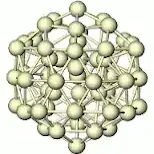
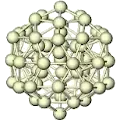
smaller pic

diff --git a/index.md b/index.md
@@ -30,7 +30,7 @@ from high-performance parallel supercomputers to conventional
 workstation clusters.
 
 The NWChem software can handle:  
-<img src="pt55.webp" style="float:right; margin-right:2px; alt="drawing" height="154" width="154"/>
+<img src="pt55.webp" style="float:right; margin-right:2px; alt="drawing" height="120" width="120"/>
 
   * Biomolecules, nanostructures, and solid-state
   * From quantum to classical, and all combinations
